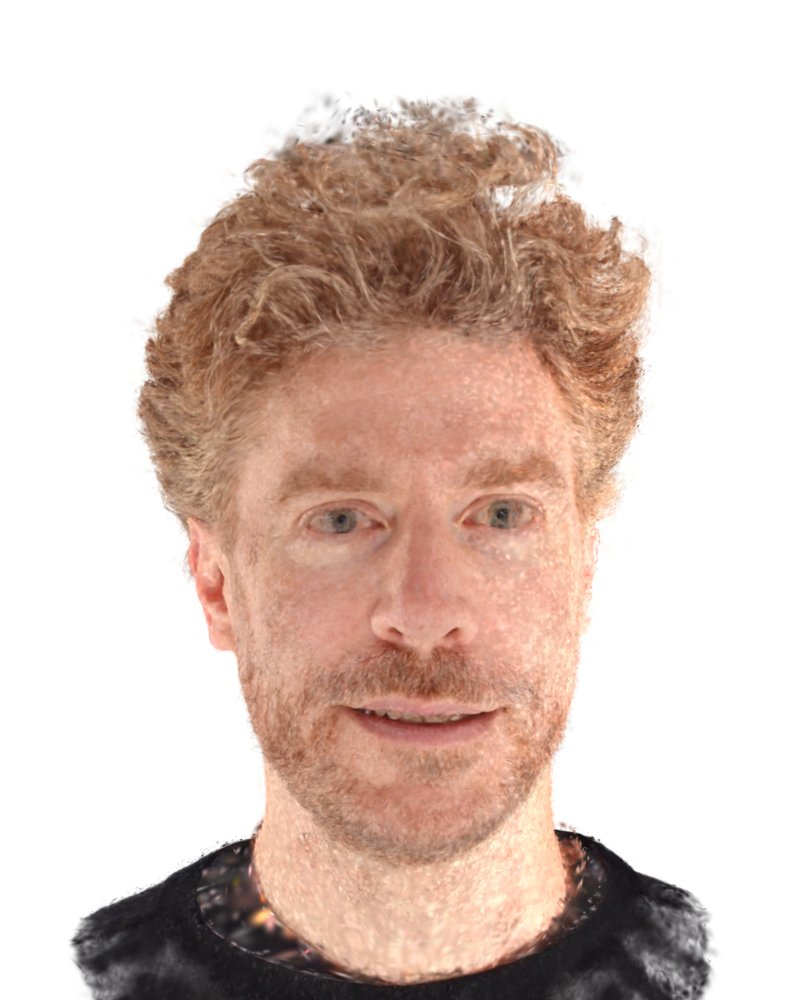
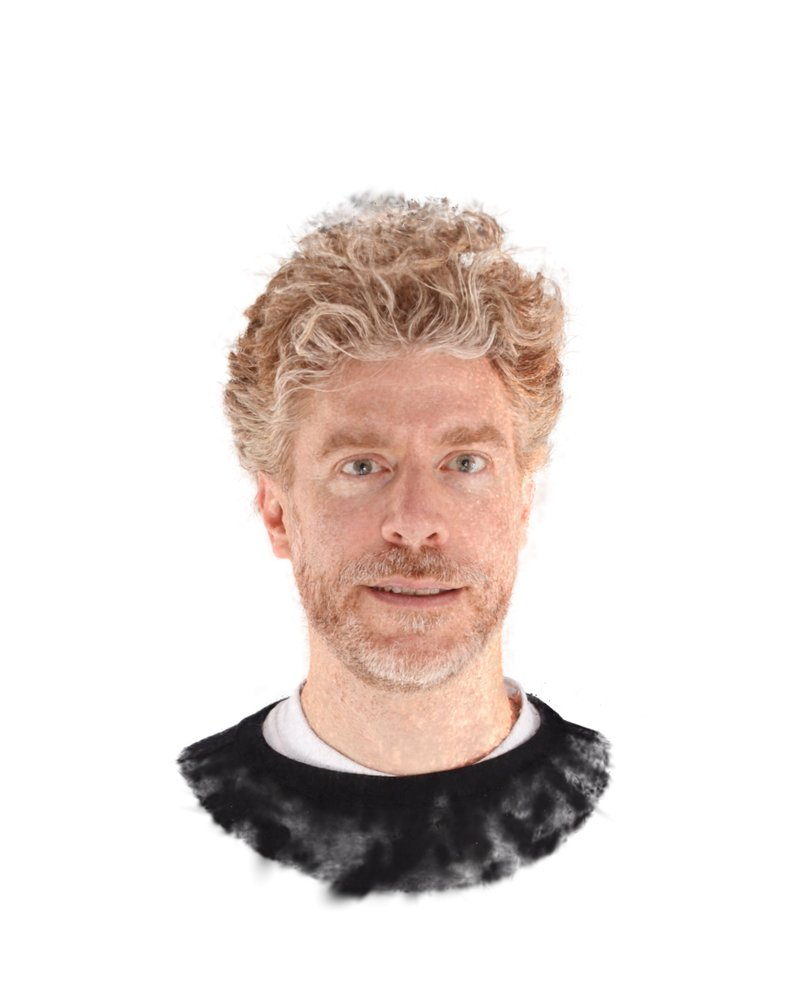
About: plain hyphens in the Laika line; stills back at original framing
The founder tours now start at their original distance and only limit
zoom-in to 150% (PLAY), so the mobile stills are re-rendered to match.

Claude-Session: https://claude.ai/code/session_01KJhWekrxn5F6FyTiAUwfyx

diff --git a/components/AboutTeaser.js b/components/AboutTeaser.js
@@ -12,8 +12,8 @@ export default function AboutTeaser() {
           for capture, authoring and delivery.
         </p>
         <p>
-          For interactive memories and events — weddings, birthdays, photobooths and live
-          moments — our sister studio{' '}
+          For interactive memories and events - weddings, birthdays, photobooths and live
+          moments - our sister studio{' '}
           <a href="https://laika-studio.de/de/" target="_blank" rel="noopener noreferrer">Laika</a>{' '}
           brings the same technology to life&apos;s personal milestones.
         </p>
